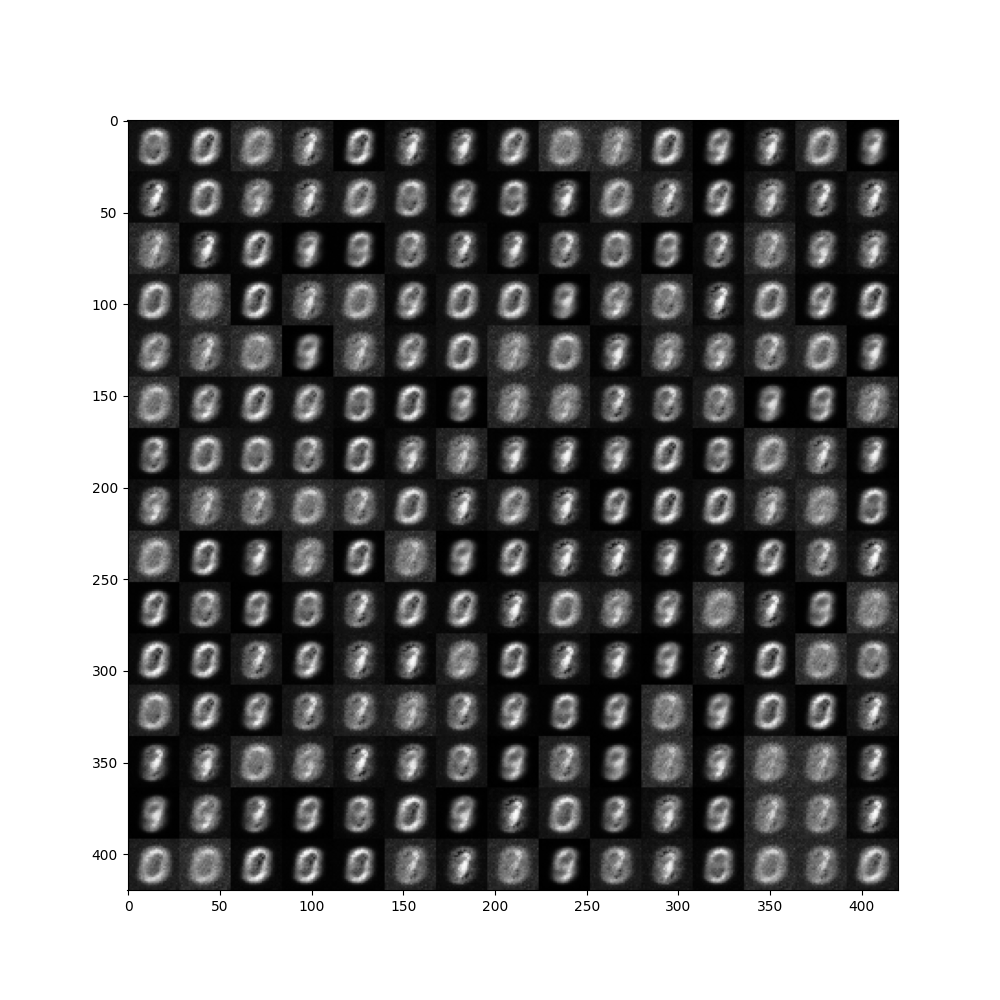
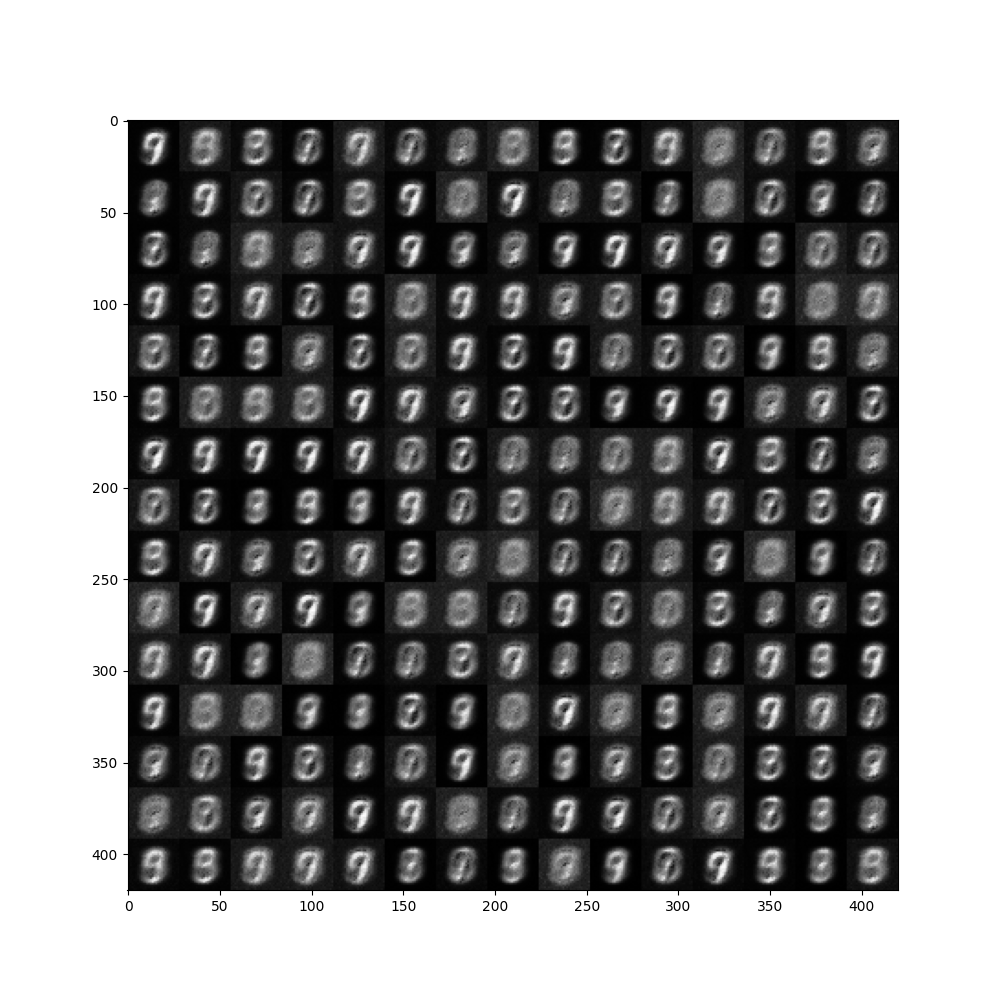
vq_svae

Changed region(s): [[0.124, 0.124, 0.899, 0.899]]

diff --git a/source/ch3-vae/svae/train_vq_svae_v4.py b/source/ch3-vae/svae/train_vq_svae_v4.py
@@ -1,65 +1,95 @@
 from train_svae_mnist import *
+from train_vq_svae_v3 import generate_spherical_points
+
+def plot_spherical_points(points):
+    if points.shape[1] != 3:
+        raise ValueError("Can only plot 3-dimensional points")
+
+    fig = plt.figure()
+    ax = fig.add_subplot(111, projection='3d')
+
+    xs = points[:, 0].numpy()
+    ys = points[:, 1].numpy()
+    zs = points[:, 2].numpy()
+
+    ax.scatter(xs, ys, zs)
+
+    ax.set_xlabel('X')
+    ax.set_ylabel('Y')
+    ax.set_zlabel('Z')
+
+    plt.title("3D Spherical Points")
+    plt.show()
 
 
-class SoftVectorQuantizer(nn.Module):
-    def __init__(self, num_embeddings, embedding_dim, commitment_cost, use_cosine_distance=False, beta=1.0):
-        super(SoftVectorQuantizer, self).__init__()
+class HardVectorQuantizer(nn.Module):
+    def __init__(self, num_embeddings, embedding_dim, commitment_cost, use_cosine_distance=False):
+        super(HardVectorQuantizer, self).__init__()
         self.embedding_dim = embedding_dim
         self.num_embeddings = num_embeddings
         self.commitment_cost = commitment_cost
         self.use_cosine_distance = use_cosine_distance
-        self.beta = beta
 
-        self.embeddings = nn.Embedding(self.num_embeddings, self.embedding_dim)
-        self.embeddings.weight.data.uniform_(-1 / self.num_embeddings, 1 / self.num_embeddings)
-        self.embeddings.weight.data = F.normalize(self.embeddings.weight.data, p=2, dim=1)  # Normalize on initialization
+        # Initialize embeddings uniformly on the 3-dimensional sphere
+        self.embeddings = nn.Parameter(generate_spherical_points(embedding_dim, num_embeddings))
+        self.embeddings.requires_grad = False
 
     def forward(self, inputs):
-        # Normalize embeddings to lie on unit sphere (ensure they remain normalized)
-        with torch.no_grad():
-            self.embeddings.weight.data = F.normalize(self.embeddings.weight.data, p=2, dim=1)
-
         # Convert inputs from BCHW -> BHWC
+        inputs = F.normalize(inputs, p=2, dim=-1)
         inputs = inputs.permute(0, 2, 3, 1).contiguous()
         input_shape = inputs.shape
 
         # Flatten input
         flat_input = inputs.view(-1, self.embedding_dim)
 
+        similarity = []
         if self.use_cosine_distance:
             # Normalize input for cosine distance
-            flat_input = F.normalize(flat_input, p=2, dim=1)
+            #flat_input = F.normalize(flat_input, p=2, dim=1)
             # Compute cosine distance (1 - cosine similarity)
-            distances = 1 - torch.matmul(flat_input, self.embeddings.weight.t())
+            similarity = torch.matmul(flat_input, self.embeddings.t())
+            distances = 1 - similarity
         else:
             # Compute Euclidean distance
             distances = (torch.sum(flat_input**2, dim=1, keepdim=True)
-                         + torch.sum(self.embeddings.weight**2, dim=1)
-                         - 2 * torch.matmul(flat_input, self.embeddings.weight.t()))
+                         + torch.sum(self.embeddings**2, dim=1)
+                         - 2 * torch.matmul(flat_input, self.embeddings.t()))
 
-        # Apply softmax to distances to get soft assignments
-        soft_assignments = F.softmax(-self.beta * distances, dim=1)
+        # Hard quantization
+        encoding_indices = torch.argmin(distances, dim=1).unsqueeze(1)
+        quantized = F.embedding(encoding_indices, self.embeddings).view(input_shape)
 
-        # Quantize and unflatten
-        quantized = torch.matmul(soft_assignments, self.embeddings.weight).view(input_shape)
+        # Use STE to pass gradients
+        quantized = inputs + (quantized - inputs).detach()
 
         # Loss
         e_latent_loss = F.mse_loss(quantized.detach(), inputs)
-        q_latent_loss = F.mse_loss(quantized, inputs.detach())
-        loss = q_latent_loss + self.commitment_cost * e_latent_loss
+
+        # Compute soft assignments for entropy calculation
+        soft_assignments = F.softmax(similarity, dim=1)
+        avg_probs = torch.mean(soft_assignments, dim=0)
+        entropy_loss = torch.sum(avg_probs * torch.log(avg_probs + 1e-10))
+
+        avg_similarity_entropy = torch.sum(soft_assignments * torch.log(soft_assignments + 1e-10), dim=1).mean()
+
+        t = -entropy_loss + avg_similarity_entropy
+        total_loss = e_latent_loss + self.commitment_cost * t
 
         # Convert quantized from BHWC -> BCHW
-        return loss, quantized.permute(0, 3, 1, 2).contiguous(), soft_assignments
+        q = quantized.permute(0, 3, 1, 2).contiguous()
+        return total_loss, q, encoding_indices
+
 
 class VQ_SVAE(nn.Module):
-    def __init__(self, num_embeddings, embedding_dim, commitment_cost, use_cosine_distance=False, beta=1.0):
+    def __init__(self, num_embeddings, embedding_dim, commitment_cost, use_cosine_distance=False):
         super(VQ_SVAE, self).__init__()
         self.encoder = nn.Sequential(
             nn.Linear(original_dim, intermediate_dim),
             nn.ReLU(),
             nn.Linear(intermediate_dim, latent_dim)
         )
-        self.vq_layer = SoftVectorQuantizer(num_embeddings, latent_dim, commitment_cost, use_cosine_distance, beta)
+        self.vq_layer = HardVectorQuantizer(num_embeddings, latent_dim, commitment_cost, use_cosine_distance)
         self.decoder = nn.Sequential(
             nn.Linear(latent_dim, intermediate_dim),
             nn.ReLU(),
@@ -89,7 +119,7 @@ class VQ_SVAE(nn.Module):
     def generate(self, num_samples, device, noise_scale=0.1):
         # Sample random indices from the codebook
         embedding_indices = torch.randint(0, self.vq_layer.num_embeddings, (num_samples,), device=device)
-        embeddings = self.vq_layer.embeddings(embedding_indices)
+        embeddings = self.vq_layer.embeddings[embedding_indices]
 
         # Add Gaussian noise to the embeddings
         noise = noise_scale * torch.randn_like(embeddings)
@@ -98,6 +128,7 @@ class VQ_SVAE(nn.Module):
         # Decode the noisy embeddings to generate new images
         samples = self.decode(noisy_embeddings).cpu().data.numpy()
         return samples
+
 
 
 def loss_function(recon_x, x, vq_loss):
@@ -141,13 +172,13 @@ def visualize_generated_images(model, num_samples, device, noise_scale=0.1):
         for i in range(num_samples):
             axes[i].imshow(samples[i].reshape(28, 28), cmap='gray')
             axes[i].axis('off')
-        plt.savefig("generated_images_vq_svae_v2.png")
+        plt.savefig("generated_images_vq_svae_v4.png")
         plt.show()
 
 def main(args):
     device = torch.device('cuda' if torch.cuda.is_available() else 'cpu')
     model = VQ_SVAE(num_embeddings=512, embedding_dim=latent_dim, commitment_cost=0.25,
-                    use_cosine_distance=args.use_cosine_distance, beta=args.beta).to(device)
+                    use_cosine_distance=args.use_cosine_distance).to(device)
     optimizer = optim.Adam(model.parameters(), lr=args.lr)
 
     train_loader, test_loader = load_data(DS_PATH_MNIST, args.batch_size)
@@ -156,7 +187,7 @@ def main(args):
     val_loss_history = []
     start_epoch = 1
 
-    checkpoint_path = os.path.join(args.checkpoint_dir, 'vq_svae_checkpoint_v2.pth')
+    checkpoint_path = os.path.join(args.checkpoint_dir, 'vq_svae_checkpoint_v4.pth')
     if os.path.exists(checkpoint_path):
         start_epoch, train_loss_history, val_loss_history = load_checkpoint(checkpoint_path, model, optimizer)
         print(f'Checkpoint loaded, resuming training from epoch {start_epoch}')
@@ -173,9 +204,9 @@ def main(args):
             'val_loss_history': val_loss_history
         }, checkpoint_path)
 
-    plot_loss(train_loss_history, val_loss_history, "vq_svae_v2_loss_history.png")
-    visualize_latent_space(model, test_loader, device, version=2)
-    visualize_reconstructed_digits(model, device, latent_dim, version=2)
+    plot_loss(train_loss_history, val_loss_history, "vq_svae_v4_loss_history.png")
+    visualize_latent_space(model, test_loader, device, version=4)
+    visualize_reconstructed_digits(model, device, latent_dim, version=4)
     visualize_generated_images(model, num_samples=10, device=device, noise_scale=0.1)
 
 
@@ -186,6 +217,5 @@ if __name__ == "__main__":
     parser.add_argument("--lr", type=float, default=5e-4, help="Learning rate")
     parser.add_argument("--checkpoint_dir", type=str, default='mbin', help="Directory to save checkpoints")
     parser.add_argument("--use_cosine_distance", action="store_true", help="Use cosine distance for vector quantization")
-    parser.add_argument("--beta", type=float, default=15.0, help="Beta parameter for soft quantization")
     args = parser.parse_args()
     main(args)

diff --git a/source/ch3-vae/svae/train_vq_svae_v3.py b/source/ch3-vae/svae/train_vq_svae_v3.py
@@ -1,5 +1,25 @@
 from train_svae_mnist import *
 
+def generate_spherical_points(dim, num_points):
+    if dim != 3:
+        raise ValueError("This function currently only supports 3-dimensional points")
+
+    points = []
+    phi = (1 + np.sqrt(5)) / 2  # golden ratio
+    for i in range(num_points):
+        z = 1 - (i / float(num_points - 1)) * 2  # z goes from 1 to -1
+        radius = np.sqrt(1 - z * z)  # radius at z
+
+        theta = 2 * np.pi * i / phi
+
+        x = np.cos(theta) * radius
+        y = np.sin(theta) * radius
+
+        points.append([x, y, z])
+
+    points = np.array(points)
+    points = torch.tensor(points, dtype=torch.float)
+    return points
 
 class SoftVectorQuantizer(nn.Module):
     def __init__(self, num_embeddings, embedding_dim, commitment_cost, use_cosine_distance=False, beta=1.0):
@@ -10,46 +30,52 @@ class SoftVectorQuantizer(nn.Module):
         self.use_cosine_distance = use_cosine_distance
         self.beta = beta
 
-        self.embeddings = nn.Embedding(self.num_embeddings, self.embedding_dim)
-        self.embeddings.weight.data.uniform_(-1 / self.num_embeddings, 1 / self.num_embeddings)
-        self.embeddings.weight.data = F.normalize(self.embeddings.weight.data, p=2, dim=1)  # Normalize on initialization
+        # Initialize embeddings uniformly on the 3-dimensional sphere
+        self.embeddings = nn.Parameter(generate_spherical_points(embedding_dim, num_embeddings))
+        self.embeddings.requires_grad = False
 
     def forward(self, inputs):
-        # Normalize embeddings to lie on unit sphere (ensure they remain normalized)
-        with torch.no_grad():
-            self.embeddings.weight.data = F.normalize(self.embeddings.weight.data, p=2, dim=1)
-
         # Convert inputs from BCHW -> BHWC
+        inputs = F.normalize(inputs, p=2, dim=-1)
         inputs = inputs.permute(0, 2, 3, 1).contiguous()
         input_shape = inputs.shape
 
         # Flatten input
         flat_input = inputs.view(-1, self.embedding_dim)
 
+        similarity = []
         if self.use_cosine_distance:
             # Normalize input for cosine distance
-            flat_input = F.normalize(flat_input, p=2, dim=1)
+            #flat_input = F.normalize(flat_input, p=2, dim=1)
             # Compute cosine distance (1 - cosine similarity)
-            distances = 1 - torch.matmul(flat_input, self.embeddings.weight.t())
+            similarity = torch.matmul(flat_input, self.embeddings.t())
+            #distances = 1 - similarity
         else:
             # Compute Euclidean distance
             distances = (torch.sum(flat_input**2, dim=1, keepdim=True)
-                         + torch.sum(self.embeddings.weight**2, dim=1)
-                         - 2 * torch.matmul(flat_input, self.embeddings.weight.t()))
+                         + torch.sum(self.embeddings**2, dim=1)
+                         - 2 * torch.matmul(flat_input, self.embeddings.t()))
 
         # Apply softmax to distances to get soft assignments
-        soft_assignments = F.softmax(-self.beta * distances, dim=1)
+        soft_assignments = F.softmax(self.beta * similarity, dim=1)
 
         # Quantize and unflatten
-        quantized = torch.matmul(soft_assignments, self.embeddings.weight).view(input_shape)
+        quantized = torch.matmul(soft_assignments, self.embeddings).view(input_shape)  # ????
 
         # Loss
         e_latent_loss = F.mse_loss(quantized.detach(), inputs)
-        q_latent_loss = F.mse_loss(quantized, inputs.detach())
-        loss = q_latent_loss + self.commitment_cost * e_latent_loss
+
+        # Entropy penalty
+        avg_probs = torch.mean(soft_assignments, dim=0)
+        entropy_loss = torch.sum(avg_probs * torch.log(avg_probs + 1e-10))
+
+        avg_similarity_entropy = torch.sum(soft_assignments * torch.log(soft_assignments + 1e-10), dim=1).mean()
+        t = avg_similarity_entropy - entropy_loss
+        total_loss = e_latent_loss + self.commitment_cost * t
 
         # Convert quantized from BHWC -> BCHW
-        return loss, quantized.permute(0, 3, 1, 2).contiguous(), soft_assignments
+        q = quantized.permute(0, 3, 1, 2).contiguous()
+        return total_loss, q, soft_assignments
 
 class VQ_SVAE(nn.Module):
     def __init__(self, num_embeddings, embedding_dim, commitment_cost, use_cosine_distance=False, beta=1.0):
@@ -89,7 +115,7 @@ class VQ_SVAE(nn.Module):
     def generate(self, num_samples, device, noise_scale=0.1):
         # Sample random indices from the codebook
         embedding_indices = torch.randint(0, self.vq_layer.num_embeddings, (num_samples,), device=device)
-        embeddings = self.vq_layer.embeddings(embedding_indices)
+        embeddings = self.vq_layer.embeddings[embedding_indices]
 
         # Add Gaussian noise to the embeddings
         noise = noise_scale * torch.randn_like(embeddings)
@@ -98,6 +124,7 @@ class VQ_SVAE(nn.Module):
         # Decode the noisy embeddings to generate new images
         samples = self.decode(noisy_embeddings).cpu().data.numpy()
         return samples
+
 
 
 def loss_function(recon_x, x, vq_loss):
@@ -141,7 +168,7 @@ def visualize_generated_images(model, num_samples, device, noise_scale=0.1):
         for i in range(num_samples):
             axes[i].imshow(samples[i].reshape(28, 28), cmap='gray')
             axes[i].axis('off')
-        plt.savefig("generated_images_vq_svae_v2.png")
+        plt.savefig("generated_images_vq_svae_v3.png")
         plt.show()
 
 def main(args):
@@ -156,7 +183,7 @@ def main(args):
     val_loss_history = []
     start_epoch = 1
 
-    checkpoint_path = os.path.join(args.checkpoint_dir, 'vq_svae_checkpoint_v2.pth')
+    checkpoint_path = os.path.join(args.checkpoint_dir, 'vq_svae_checkpoint_v3.pth')
     if os.path.exists(checkpoint_path):
         start_epoch, train_loss_history, val_loss_history = load_checkpoint(checkpoint_path, model, optimizer)
         print(f'Checkpoint loaded, resuming training from epoch {start_epoch}')
@@ -173,9 +200,9 @@ def main(args):
             'val_loss_history': val_loss_history
         }, checkpoint_path)
 
-    plot_loss(train_loss_history, val_loss_history, "vq_svae_v2_loss_history.png")
-    visualize_latent_space(model, test_loader, device, version=2)
-    visualize_reconstructed_digits(model, device, latent_dim, version=2)
+    plot_loss(train_loss_history, val_loss_history, "vq_svae_v3_loss_history.png")
+    visualize_latent_space(model, test_loader, device, version=3)
+    visualize_reconstructed_digits(model, device, latent_dim, version=3)
     visualize_generated_images(model, num_samples=10, device=device, noise_scale=0.1)
 
 
@@ -186,6 +213,6 @@ if __name__ == "__main__":
     parser.add_argument("--lr", type=float, default=5e-4, help="Learning rate")
     parser.add_argument("--checkpoint_dir", type=str, default='mbin', help="Directory to save checkpoints")
     parser.add_argument("--use_cosine_distance", action="store_true", help="Use cosine distance for vector quantization")
-    parser.add_argument("--beta", type=float, default=15.0, help="Beta parameter for soft quantization")
+    parser.add_argument("--beta", type=float, default=10.0, help="Beta parameter for soft quantization")
     args = parser.parse_args()
     main(args)

diff --git a/source/ch3-vae/svae/train_svae_mnist.py b/source/ch3-vae/svae/train_svae_mnist.py
@@ -123,7 +123,8 @@ def validate(model, test_loader, device, val_loss_history):
     val_loss_history.append(avg_val_loss)
     print(f'====> Test set loss: {avg_val_loss:.4f}')
 
-def visualize_latent_space(model, test_loader, device):
+
+def visualize_latent_space(model, test_loader, device, version=0):
     model.eval()
     with torch.no_grad():
         z_means = []
@@ -140,16 +141,23 @@ def visualize_latent_space(model, test_loader, device):
         z_means = torch.cat(z_means).cpu().numpy()
         labels = torch.cat(labels).cpu().numpy()
 
-    fig = plt.figure(figsize=(10, 10))  # Larger figure size
+    fig = plt.figure(figsize=(15, 15))  # Larger figure size
     ax = fig.add_subplot(111, projection='3d')
-    scatter = ax.scatter(z_means[:, 0], z_means[:, 1], z_means[:, 2], c=labels, cmap='viridis', s=10)  # Smaller points
+    scatter = ax.scatter(z_means[:, 0], z_means[:, 1], z_means[:, 2], c=labels, cmap='tab10', s=35)  # Smaller points
+
+    # Create legend
+    legend1 = ax.legend(*scatter.legend_elements(), title="Labels")
+    ax.add_artist(legend1)
+
     ax.set_xlabel('Z1')
     ax.set_ylabel('Z2')
     ax.set_zlabel('Z3')
+    plt.title('Latent Space Visualization')
+    plt.savefig(f"latent_space_v{version}.png")
     plt.show()
 
 
-def visualize_reconstructed_digits(model, device, latent_dim):
+def visualize_reconstructed_digits(model, device, latent_dim, version=0):
     with torch.no_grad():
         n = 15
         digit_size = 28
@@ -164,7 +172,8 @@ def visualize_reconstructed_digits(model, device, latent_dim):
 
     plt.figure(figsize=(10, 10))
     plt.imshow(figure, cmap='Greys_r')
-    plt.savefig('reconstructed_digits.png')
+    plt.title('Reconstructed Digits')
+    plt.savefig(f'reconstructed_digits_v{version}.png')
     plt.show()
 
 def plot_loss(train_loss_history, val_loss_history, title=None):
